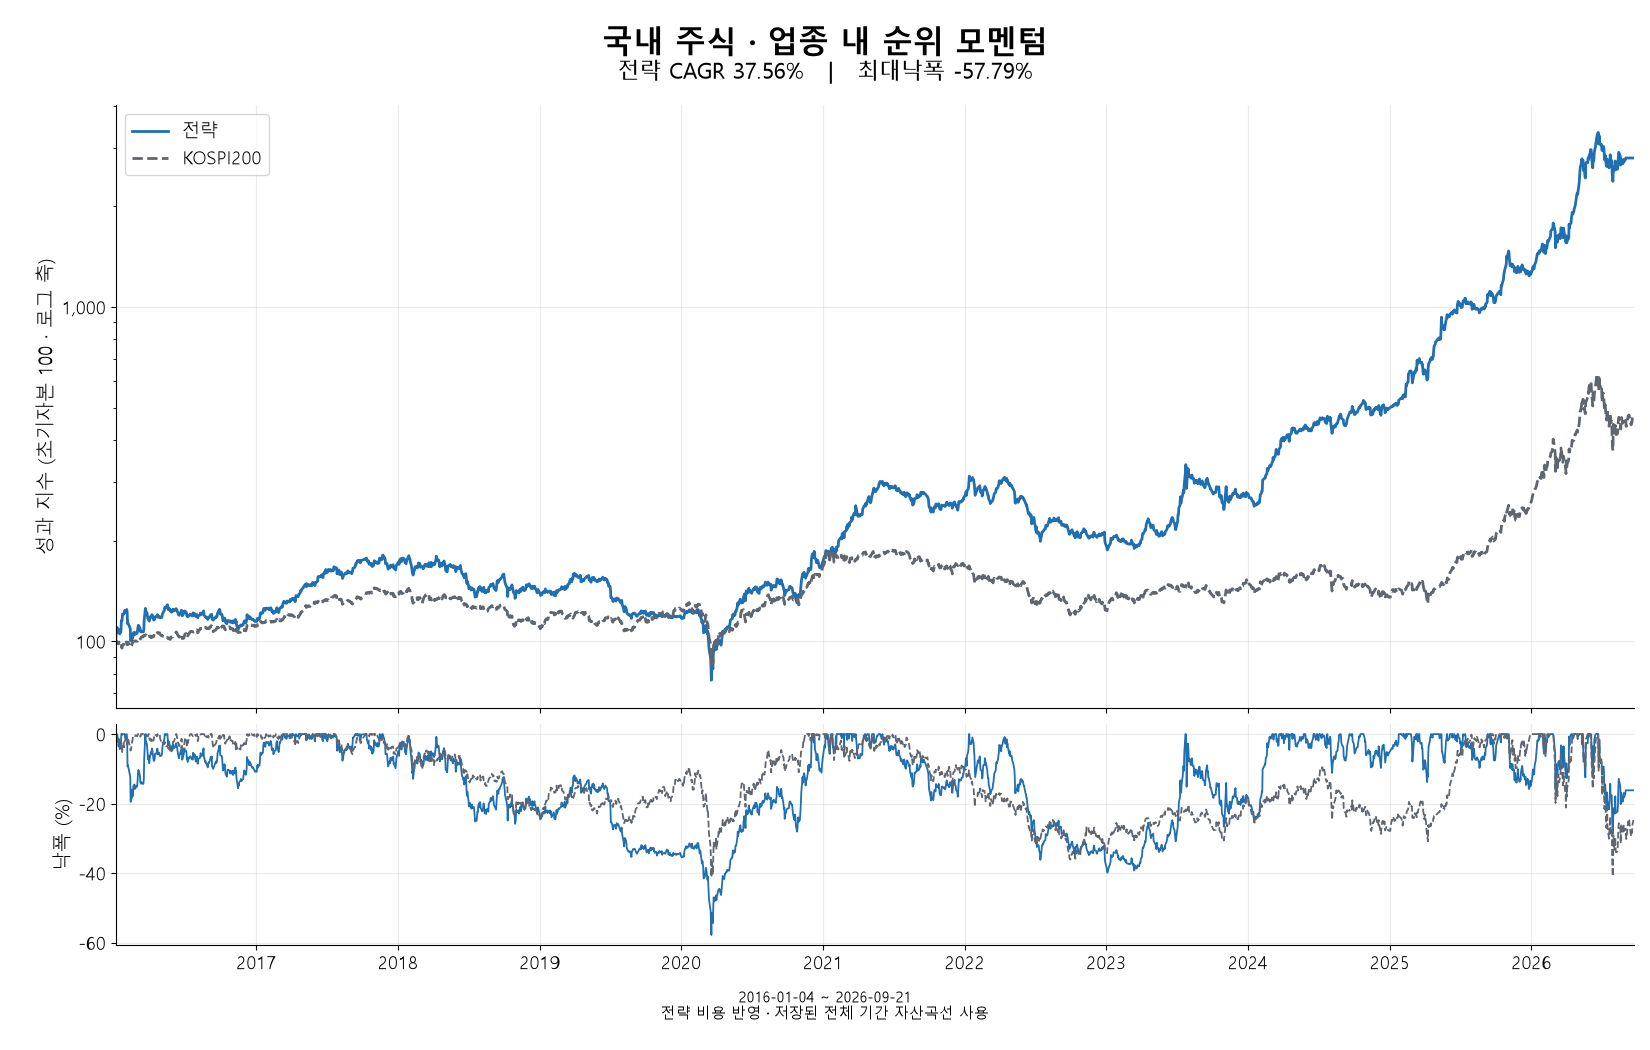
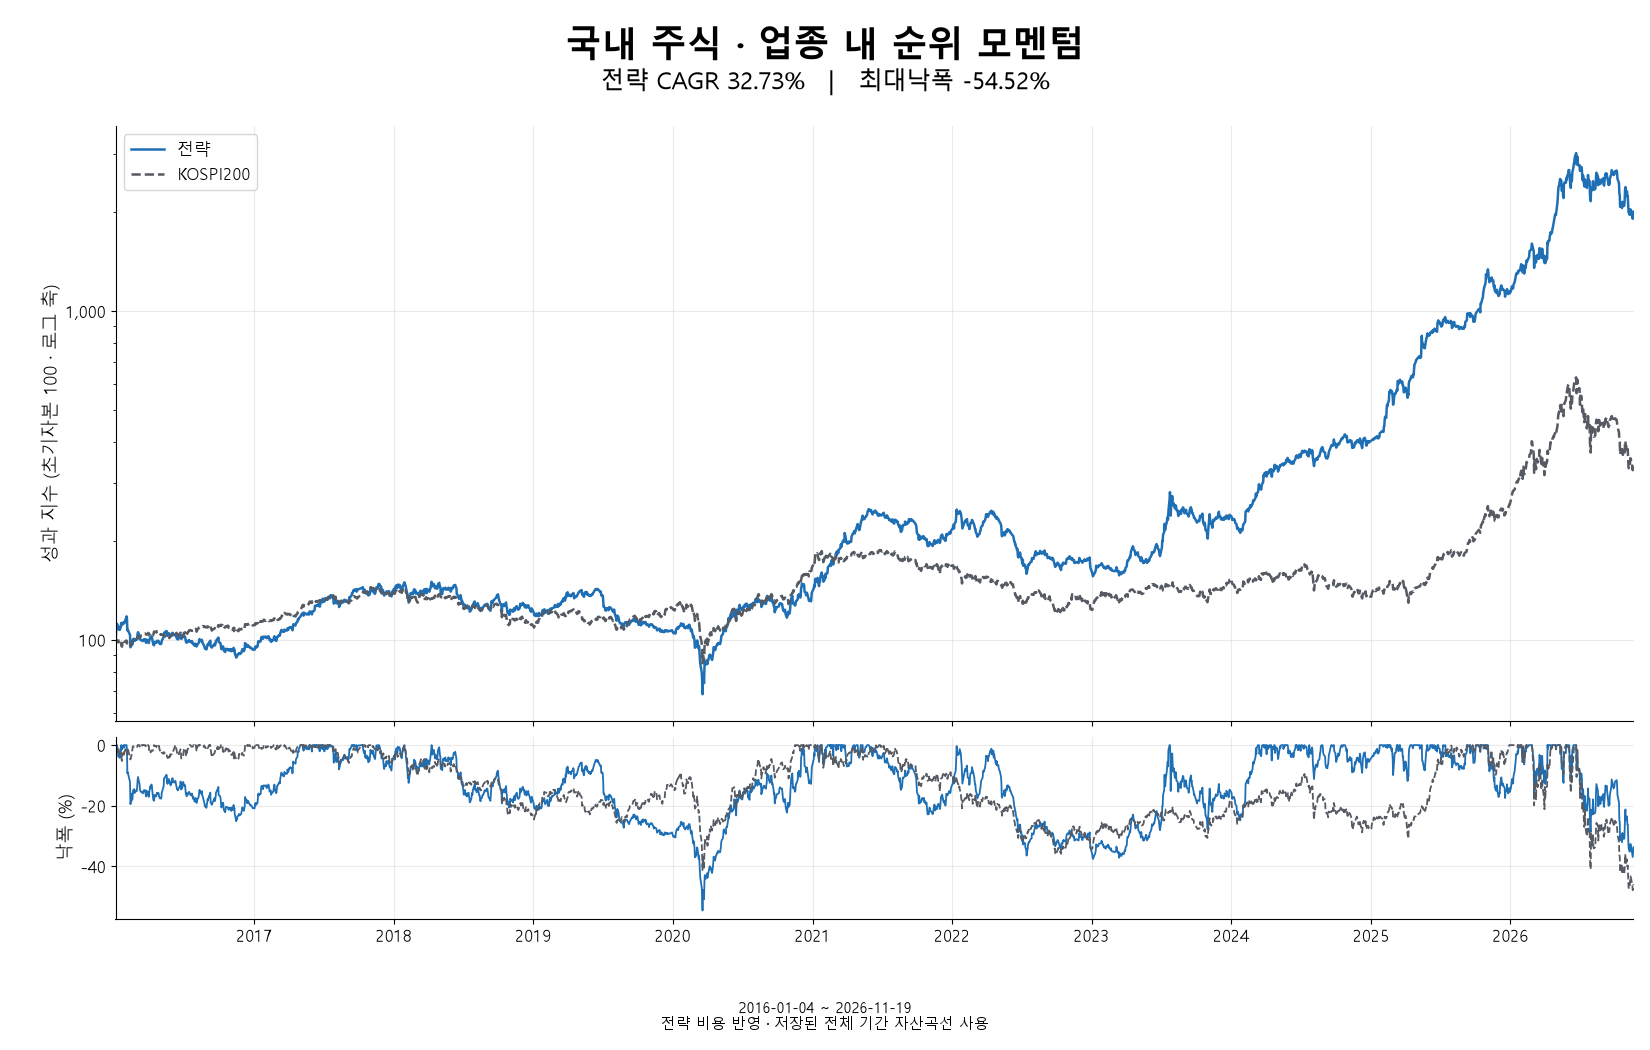
Sync case metrics with the KRX rerun and risk-free adjusted Sharpe
KR case uses the KRX price rerun to 2026-11-19 (CAGR, MDD, SPA, PBO, walk-forward,
concentration and chart). All four cases now show Sharpe after subtracting the
risk-free rate (CD91 for KRW returns, DTB3 for USDT) and add volatility and IR rows.

diff --git a/data.js b/data.js
@@ -14,7 +14,7 @@ const PORTFOLIO = {
     "id": "kr",
     "title": "국내 주식 전략",
     "subtitle": "업종 내 순위 모멘텀·업종당 최대 2종목",
-    "period": "2016.01.04 – 2026.09.21",
+    "period": "2016.01.04 – 2026.11.19",
     "benchmark": "KOSPI200",
     "image": "assets/kr_stock_case.png",
     "overview": "KOSPI 보통주 중 전월 평균 시가총액 상위 100개를 대상으로 같은 업종 내부에서 주가 움직임의 상대 순위를 계산해 상위 5개를 선정하는 전략 실험. 업종당 최대 2개까지 편입하고 월별로 동일비중 재조정.",
@@ -22,6 +22,10 @@ const PORTFOLIO = {
       [
         "투자 대상",
         "KOSPI 보통주 중 전월 평균 시가총액 상위 100개"
+      ],
+      [
+        "가격 데이터",
+        "KRX 정규장 종가·KRX 기준가 수정계수 반영, 상장폐지 종목 포함"
       ],
       [
         "순위 신호",
@@ -51,18 +55,28 @@ const PORTFOLIO = {
     "metrics": [
       [
         "연평균 수익률(CAGR)",
-        "37.56%",
-        "16.09%"
+        "32.73%",
+        "12.28%"
       ],
       [
         "최대낙폭(MDD)",
-        "-57.79%",
-        "-41.19%"
+        "-54.52%",
+        "-47.82%"
+      ],
+      [
+        "연환산 변동성",
+        "30.50%",
+        "25.65%"
       ],
       [
         "샤프 비율",
-        "1.22",
-        "0.72"
+        "1.01",
+        "0.50"
+      ],
+      [
+        "정보비율(IR)",
+        "0.80",
+        "—"
       ]
     ],
     "validation": [
@@ -72,19 +86,19 @@ const PORTFOLIO = {
       ],
       [
         "SPA",
-        "p=0.0246 (5,000회 재표집)"
+        "p=0.0272 (5,000회 재표집)"
       ],
       [
         "PBO",
-        "19.44%"
+        "15.08%"
       ],
       [
         "Walk-Forward (rolling)",
-        "CAGR 23.10% · 최대낙폭 -53.33%"
+        "CAGR 20.19% · 최대낙폭 -64.55%"
       ],
       [
         "Walk-Forward (expanding)",
-        "CAGR 26.67% · 최대낙폭 -48.16%"
+        "CAGR 21.94% · 최대낙폭 -58.86%"
       ],
       [
         "Walk-Forward 벤치마크",
@@ -95,7 +109,7 @@ const PORTFOLIO = {
         "2018.01.04 – 2026.01.02"
       ]
     ],
-    "interpretation": "전체 기간 고정 전략과 Walk-Forward는 평가기간과 후보 선택 방식이 다름. 국내 주식의 전체 기간·Walk-Forward CAGR은 모두 일봉 연 252개 수익률 관측치 기준으로 계산했으며, Walk-Forward OOS는 초기자금과 각 구간 첫날 진입 비용을 반영함. 전체 기간 CAGR은 KOSPI200보다 21.47%p 높았지만 최대낙폭은 16.60%p 컸음. 특정 종목에 대한 수익 기여 집중도도 함께 고려할 필요가 있음(SK하이닉스·SK스퀘어·삼성전자 순손익 45.6%). 후보군은 다른 접근법을 비교한 뒤 구성했으므로 검증 수치를 무조건적인 미래 성과의 증거로 해석할 수 없음.",
+    "interpretation": "전체 기간 고정 전략과 Walk-Forward는 평가기간과 후보 선택 방식이 다름. 국내 주식의 전체 기간·Walk-Forward CAGR은 모두 일봉 연 252개 수익률 관측치 기준으로 계산했으며, Walk-Forward OOS는 초기자금과 각 구간 첫날 진입 비용을 반영함. 전체 기간 CAGR은 KOSPI200보다 20.45%p 높았지만 최대낙폭은 6.70%p 컸음. 특정 종목에 대한 수익 기여 집중도도 함께 고려할 필요가 있음(SK스퀘어·SK하이닉스·효성중공업 순손익 65.5%). 샤프 비율은 원화 CD 91일물 금리를 뺀 초과수익 기준. 후보군은 다른 접근법을 비교한 뒤 구성했으므로 검증 수치를 무조건적인 미래 성과의 증거로 해석할 수 없음.",
     "sourceAnchor": "strategy-kr-stock"
   },
   {
@@ -160,9 +174,19 @@ const PORTFOLIO = {
         "-29.62%"
       ],
       [
+        "연환산 변동성",
+        "17.72%",
+        "17.34%"
+      ],
+      [
         "샤프 비율",
-        "1.19",
-        "1.00"
+        "1.07",
+        "0.87"
+      ],
+      [
+        "정보비율(IR)",
+        "0.27",
+        "—"
       ]
     ],
     "validation": [
@@ -199,7 +223,7 @@ const PORTFOLIO = {
         "2014.05.01 – 2026.04.30"
       ]
     ],
-    "interpretation": "전체 기간 고정 전략과 Walk-Forward는 평가 기간과 후보 선정 방식이 다름. OOS CAGR은 Rolling 23.84%, Expanding 19.10%이며, 같은 평가기간 SPY CAGR은 17.21%임. SPA p값 0.2302로 SPY 대비 초과성과의 통계적 유의성은 확인되지 않았고, 36개 후보 중 정보비율이 양수인 후보는 18개. SPY 수정주가를 환율로 원화 환산했으며 SPY 매수·보유에는 별도 거래 수수료를 반영하지 않음.",
+    "interpretation": "전체 기간 고정 전략과 Walk-Forward는 평가 기간과 후보 선정 방식이 다름. OOS CAGR은 Rolling 23.84%, Expanding 19.10%이며, 같은 평가기간 SPY CAGR은 17.21%임. SPA p값 0.2302로 SPY 대비 초과성과의 통계적 유의성은 확인되지 않았고, 36개 후보 중 정보비율이 양수인 후보는 18개. SPY 수정주가를 환율로 원화 환산했으며 SPY 매수·보유에는 별도 거래 수수료를 반영하지 않음. 샤프 비율은 원화 환산 수익률에서 CD 91일물 금리를 뺀 초과수익 기준.",
     "sourceAnchor": "strategy-us-etf"
   },
   {
@@ -244,9 +268,19 @@ const PORTFOLIO = {
         "-74.85%"
       ],
       [
+        "연환산 변동성",
+        "33.77%",
+        "53.38%"
+      ],
+      [
         "샤프 비율",
-        "1.91",
-        "0.88"
+        "1.84",
+        "0.84"
+      ],
+      [
+        "정보비율(IR)",
+        "0.42",
+        "—"
       ]
     ],
     "validation": [
@@ -283,7 +317,7 @@ const PORTFOLIO = {
         "2021.09.25 03:00 – 2026.09.25 02:00 UTC"
       ]
     ],
-    "interpretation": "전체 기간 고정 사례와 Walk-Forward는 평가 기간과 후보 선택 방식이 다름. OOS CAGR은 Rolling 35.53%, Expanding 40.72%이며, 같은 평가기간 BTC 보유 CAGR은 17.47%임. SPA p값 0.2627로 BTC 보유 대비 초과성과의 통계적 유의성은 확인되지 않음.",
+    "interpretation": "전체 기간 고정 사례와 Walk-Forward는 평가 기간과 후보 선택 방식이 다름. OOS CAGR은 Rolling 35.53%, Expanding 40.72%이며, 같은 평가기간 BTC 보유 CAGR은 17.47%임. SPA p값 0.2627로 BTC 보유 대비 초과성과의 통계적 유의성은 확인되지 않음. 원화(KRW-BTC) 수익률이므로 샤프 비율은 CD 91일물 금리를 뺀 초과수익 기준.",
     "sourceAnchor": "strategy-btc-spot"
   },
   {
@@ -328,9 +362,19 @@ const PORTFOLIO = {
         "-77.24%"
       ],
       [
+        "연환산 변동성",
+        "29.23%",
+        "60.71%"
+      ],
+      [
         "샤프 비율",
-        "1.32",
-        "0.89"
+        "1.22",
+        "0.84"
+      ],
+      [
+        "정보비율(IR)",
+        "-0.22",
+        "—"
       ]
     ],
     "validation": [
@@ -351,7 +395,7 @@ const PORTFOLIO = {
         "전체 기간 결과를 확인한 후 상위 조합 선정"
       ]
     ],
-    "interpretation": "1위 조합은 전체 기간 결과를 보고 선정했으므로 독립적인 표본 외 검증 성과로 해석할 수 없음. BTC 보유는 거래비용·펀딩을 제외한 가격 수익률.",
+    "interpretation": "1위 조합은 전체 기간 결과를 보고 선정했으므로 독립적인 표본 외 검증 성과로 해석할 수 없음. BTC 보유는 거래비용·펀딩을 제외한 가격 수익률. USDT 수익률이므로 샤프 비율은 미국 3개월 국채 금리를 뺀 초과수익 기준. 정보비율은 BTC 보유 대비 값이며, 롱·숏이 시장 방향을 상쇄하는 구조라 참고용.",
     "sourceAnchor": "strategy-alt-futures"
   }
 ],
@@ -368,7 +412,7 @@ const PORTFOLIO = {
       links:[{label:'GitHub 저장소',url:'https://github.com/Choe-Useong/quant-trading-system'},{label:'백테스트·검증 보고서',url:'#/projects/quant/reports'},{label:INVESTMENT_REPORT.label,url:INVESTMENT_REPORT.url}],
       visuals:[
         {title:'시스템 아키텍처',description:'데이터 준비, 투자전략 계산, 성과 검증, 주문·계좌 관리 기능의 전체 구성도',src:'https://raw.githubusercontent.com/Choe-Useong/quant-trading-system/main/notes/assets/system_architecture.png',source:'https://github.com/Choe-Useong/quant-trading-system/blob/main/notes/assets/system_architecture.png',kind:'architecture',altSteps:['데이터 수집·캐시','전략 신호·선정','목표 비중 계산','검증 및 주문 관리']},
-        {title:'국내 주식 백테스트 사례',description:'2016.01~2026.09 업종 내 순위 모멘텀 전략의 전체 기간 CAGR 37.56%(KOSPI200 16.09%), 최대낙폭 -57.79%. Walk-Forward CAGR은 rolling 23.10%, expanding 26.67%(동일 평가기간 KOSPI200 8.77%).',src:'assets/kr_stock_case.png',source:'https://github.com/Choe-Useong/quant-trading-system/blob/main/notes/assets/kr_stock_case.png',reportId:'kr',kind:'chart',altMetrics:[['전략 CAGR','37.56%'],['KOSPI200 CAGR','16.09%'],['WF rolling','23.10%'],['WF expanding','26.67%']]},
+        {title:'국내 주식 백테스트 사례',description:'2016.01~2026.11 업종 내 순위 모멘텀 전략의 전체 기간 CAGR 32.73%(KOSPI200 12.28%), 최대낙폭 -54.52%. Walk-Forward CAGR은 rolling 20.19%, expanding 21.94%(동일 평가기간 KOSPI200 8.77%).',src:'assets/kr_stock_case.png',source:'https://github.com/Choe-Useong/quant-trading-system/blob/main/notes/assets/kr_stock_case.png',reportId:'kr',kind:'chart',altMetrics:[['전략 CAGR','32.73%'],['KOSPI200 CAGR','12.28%'],['WF rolling','20.19%'],['WF expanding','21.94%']]},
         {title:'미국 ETF 백테스트 사례',description:'2012.05~2026.05 미국 1배 ETF 17개를 대상으로 한 전략의 전체 기간 CAGR 21.50%(원화 환산 SPY 17.08%), 최대낙폭 -21.82%. Walk-Forward OOS CAGR은 Rolling 23.84%, Expanding 19.10%(동일 평가기간 SPY 17.21%).',src:'assets/us_etf_case.png',source:'https://github.com/Choe-Useong/quant-trading-system/blob/main/notes/assets/us_etf_case.png',reportId:'us',kind:'chart',altMetrics:[['전략 CAGR','21.50%'],['SPY CAGR','17.08%'],['WF Rolling','23.84%'],['WF Expanding','19.10%']]},
         {title:'BTC 현물 백테스트 사례',description:'2019.09~2026.10 과거 분석의 연평균 수익률 80.03%(BTC 보유 38.90%). Walk-Forward OOS CAGR은 Rolling 35.53%, Expanding 40.72%(동일 평가기간 BTC 보유 17.47%).',src:'assets/btc_spot_case.png',source:'https://github.com/Choe-Useong/quant-trading-system/blob/main/notes/assets/btc_spot_case.png',reportId:'btc',kind:'chart',altMetrics:[['전략 CAGR','80.03%'],['BTC 보유 CAGR','38.90%'],['WF Rolling','35.53%'],['WF Expanding','40.72%']]},
         {title:'알트코인 선물 롱·숏 백테스트 사례',description:'2020.01~2026.10, 거래대금과 최근 수익률을 기준으로 나눈 9개 그룹의 롱·숏 72개 조합을 비교. 누적수익률 1위 조합의 CAGR 40.88%, 최대낙폭 -35.05%. 비교 기준 BTC 보유 CAGR 42.55%.',src:'assets/alt_futures_case_preview.png',source:'https://github.com/Choe-Useong/quant-trading-system/blob/main/notes/assets/alt_futures_case_preview.png',reportId:'futures',kind:'chart',altMetrics:[['사례 CAGR','40.88%'],['BTC 보유 CAGR','42.55%'],['최대낙폭','-35.05%'],['비교 조합','72개']]}
